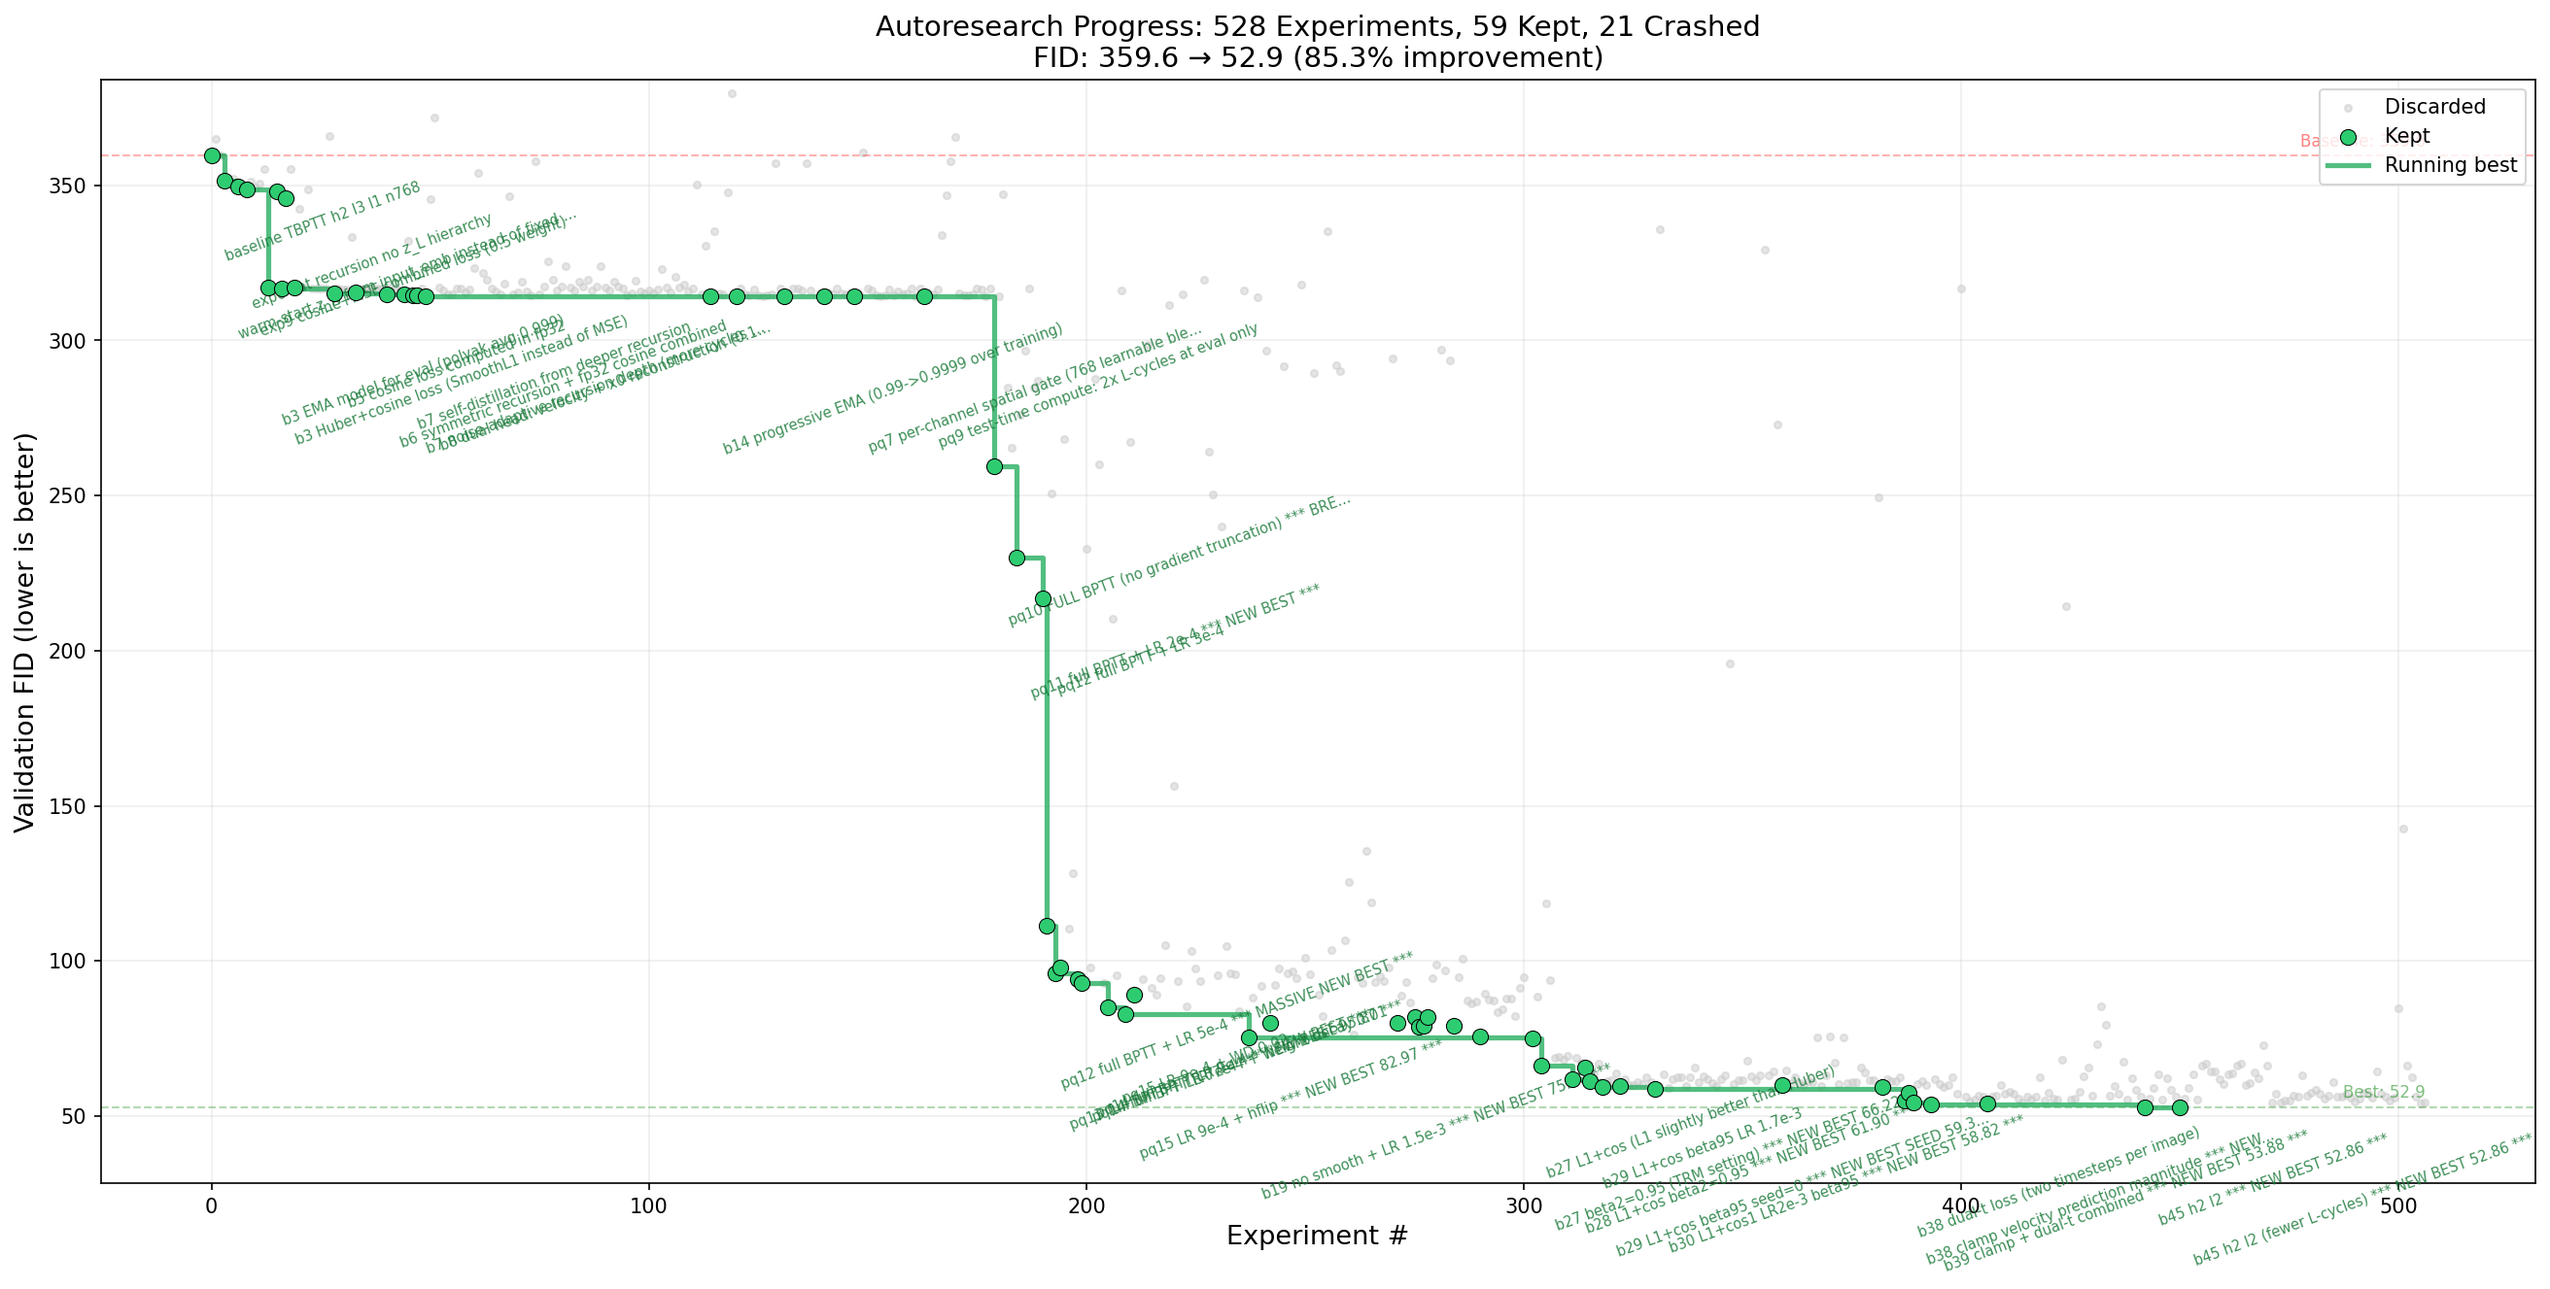
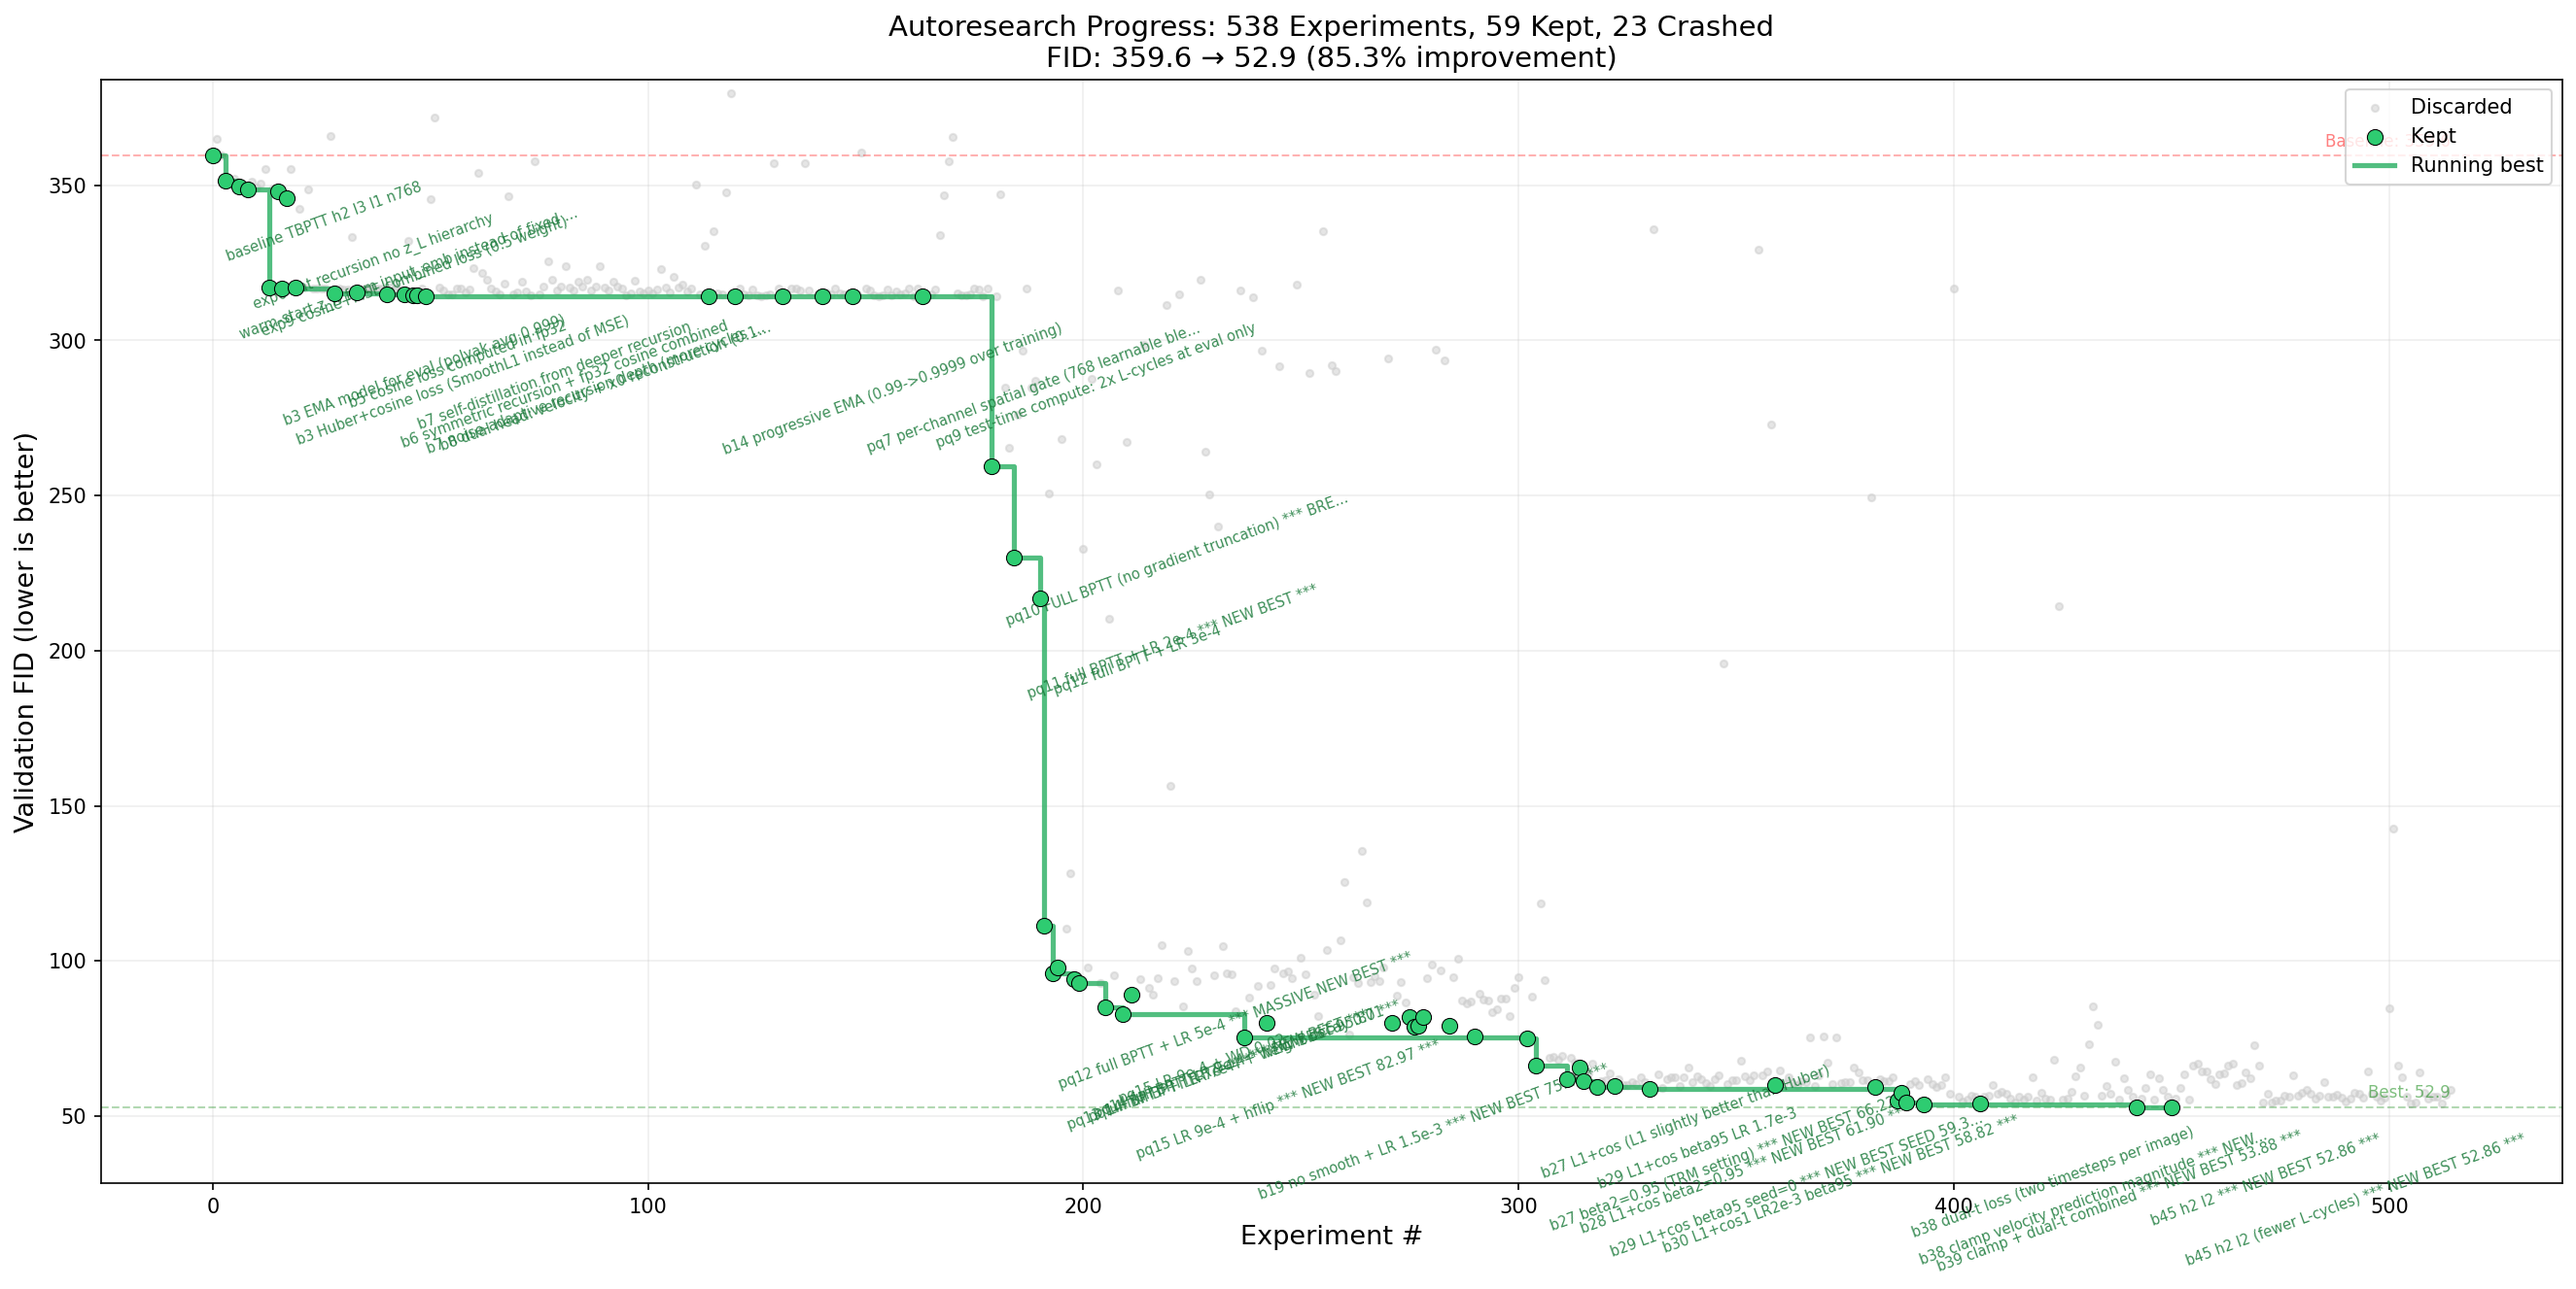
538 experiments: curriculum denoising didn't improve (auxiliary loss too expensive). FID ~57±3. Best: 52.86.

diff --git a/ideas.md b/ideas.md
@@ -817,3 +817,51 @@ Analysis:
 Conclusion:
 Next Ideas to Try:
 ---
+
+---
+idea_id: curriculum_denoising_recursion
+Description: Fundamentally change how the recursive model learns: instead of just predicting velocity at random timesteps, add a curriculum-based denoising objective. During training, corrupt the clean image with noise (starting very light, increasing as the model masters each level), then run the full recursive forward (all H_cycles and L_cycles), and penalize the OUTPUT z_H for not reconstructing the clean image. The noise level increases when training loss plateaus, creating a curriculum from easy (nearly clean) to hard (heavy noise). Each recursive cycle should improve the reconstruction — this is the "monotonic improvement" property. The model still predicts velocity for the ODE sampler (compatibility with prepare.py), but the auxiliary denoising curriculum teaches the shared weights to be effective iterative refiners at ALL noise levels. Implementation: (1) Add Gaussian noise with learnable sigma to clean images, (2) project z_H through output head at each H_cycle boundary, compute reconstruction loss, (3) increase sigma when loss plateaus. The velocity prediction loss (L1+cos) remains as the primary loss, with the denoising curriculum as auxiliary.
+Confidence: 7
+Why: This is inspired by the user's insight that the TRM recursion should naturally map to iterative denoising. The architecture was DESIGNED for iterative refinement (that's what TRM does for reasoning). The curriculum prevents catastrophic forgetting — the model first masters easy denoising, then progressively harder levels. The monotonic improvement property is achieved by training with multi-step loss (supervise each H_cycle's output). The key advantage: this teaches the shared weights to be good single-step denoisers, which directly improves the ODE sampling quality (each of the 50 Euler steps benefits from better single-step denoising). Data: our model currently achieves FID ~57 with recursive velocity prediction. Adding a denoising curriculum that teaches the RECURSION to refine progressively could unlock the architecture's full potential. Risk: the auxiliary loss might interfere with velocity prediction, and the curriculum tuning could be tricky.
+Time of idea generation: 2026-03-22 08:00
+Status: Not Implemented
+HPPs:
+Time of run start and end:
+Results vs. Baseline:
+wandb link:
+Analysis:
+Conclusion:
+Next Ideas to Try:
+---
+
+---
+idea_id: monotonic_multistep_denoising
+Description: Simpler version of the curriculum idea: during training, corrupt clean images with noise at the CURRENT flow matching timestep t, run the model's recursive forward, and extract intermediate outputs at each H_cycle boundary. Compute reconstruction loss at each boundary with INCREASING weight (cycle 1 gets weight 0.1, cycle 2 gets weight 1.0). This directly enforces the "each cycle improves" property. The loss is: sum over cycles of w_i * L1(output_head(z_H_at_cycle_i), clean_image). Combined with the velocity loss. This is different from our failed multi-step experiment (batch 1, FID 365) because: (1) we now have full BPTT, (2) we compute loss on z_H (not z_L), (3) we weight later cycles more, and (4) the model is much better trained.
+Confidence: 6
+Why: Our original multi-step loss experiment failed because it used truncated BPTT and computed intermediates from z_L. With full BPTT and z_H outputs, the gradient signal reaches all shared weights for all cycles. The increasing weight schedule enforces monotonic improvement — later cycles MUST be better. This directly implements the "each iteration only improves FID" property. Risk: the intermediate output head evaluations add compute, reducing total training steps.
+Time of idea generation: 2026-03-22 08:00
+Status: Not Implemented
+HPPs:
+Time of run start and end:
+Results vs. Baseline:
+wandb link:
+Analysis:
+Conclusion:
+Next Ideas to Try:
+---
+
+---
+idea_id: imgaug_curriculum_denoise
+Description: Use imgaug library for rich, realistic image degradation in the curriculum denoising approach. Instead of simple Gaussian noise, use imgaug's augmenters to create realistic corruptions: (1) Start with light Gaussian blur + slight brightness change, (2) progress to heavier blur + noise + contrast changes, (3) eventually reach salt-and-pepper noise + heavy Gaussian noise + color jitter. The curriculum uses imgaug.augmenters with increasing severity controlled by a single "difficulty" parameter that ramps up as the model masters each level. The model must learn to reconstruct the clean image from these corruptions through its recursive cycles. This teaches the shared weights to be robust iterative refiners. The key insight from the user: we want theta such that 1 iteration does OK, and each additional iteration ONLY improves — never degrades.
+Confidence: 7
+Why: imgaug provides realistic, diverse corruptions that are much harder than simple Gaussian noise. This forces the model to learn robust features that generalize well. The curriculum prevents the model from being overwhelmed — it first masters easy corruptions before progressing to harder ones. The monotonic improvement property is enforced by supervising intermediate outputs. This is a novel training approach that leverages TRM's recursive architecture in a way that standard DiTs can't — the recursion IS the denoising.
+Time of idea generation: 2026-03-22 16:30
+Status: Not Implemented
+HPPs:
+Time of run start and end:
+Results vs. Baseline:
+wandb link:
+Analysis:
+Conclusion:
+Next Ideas to Try:
+---
